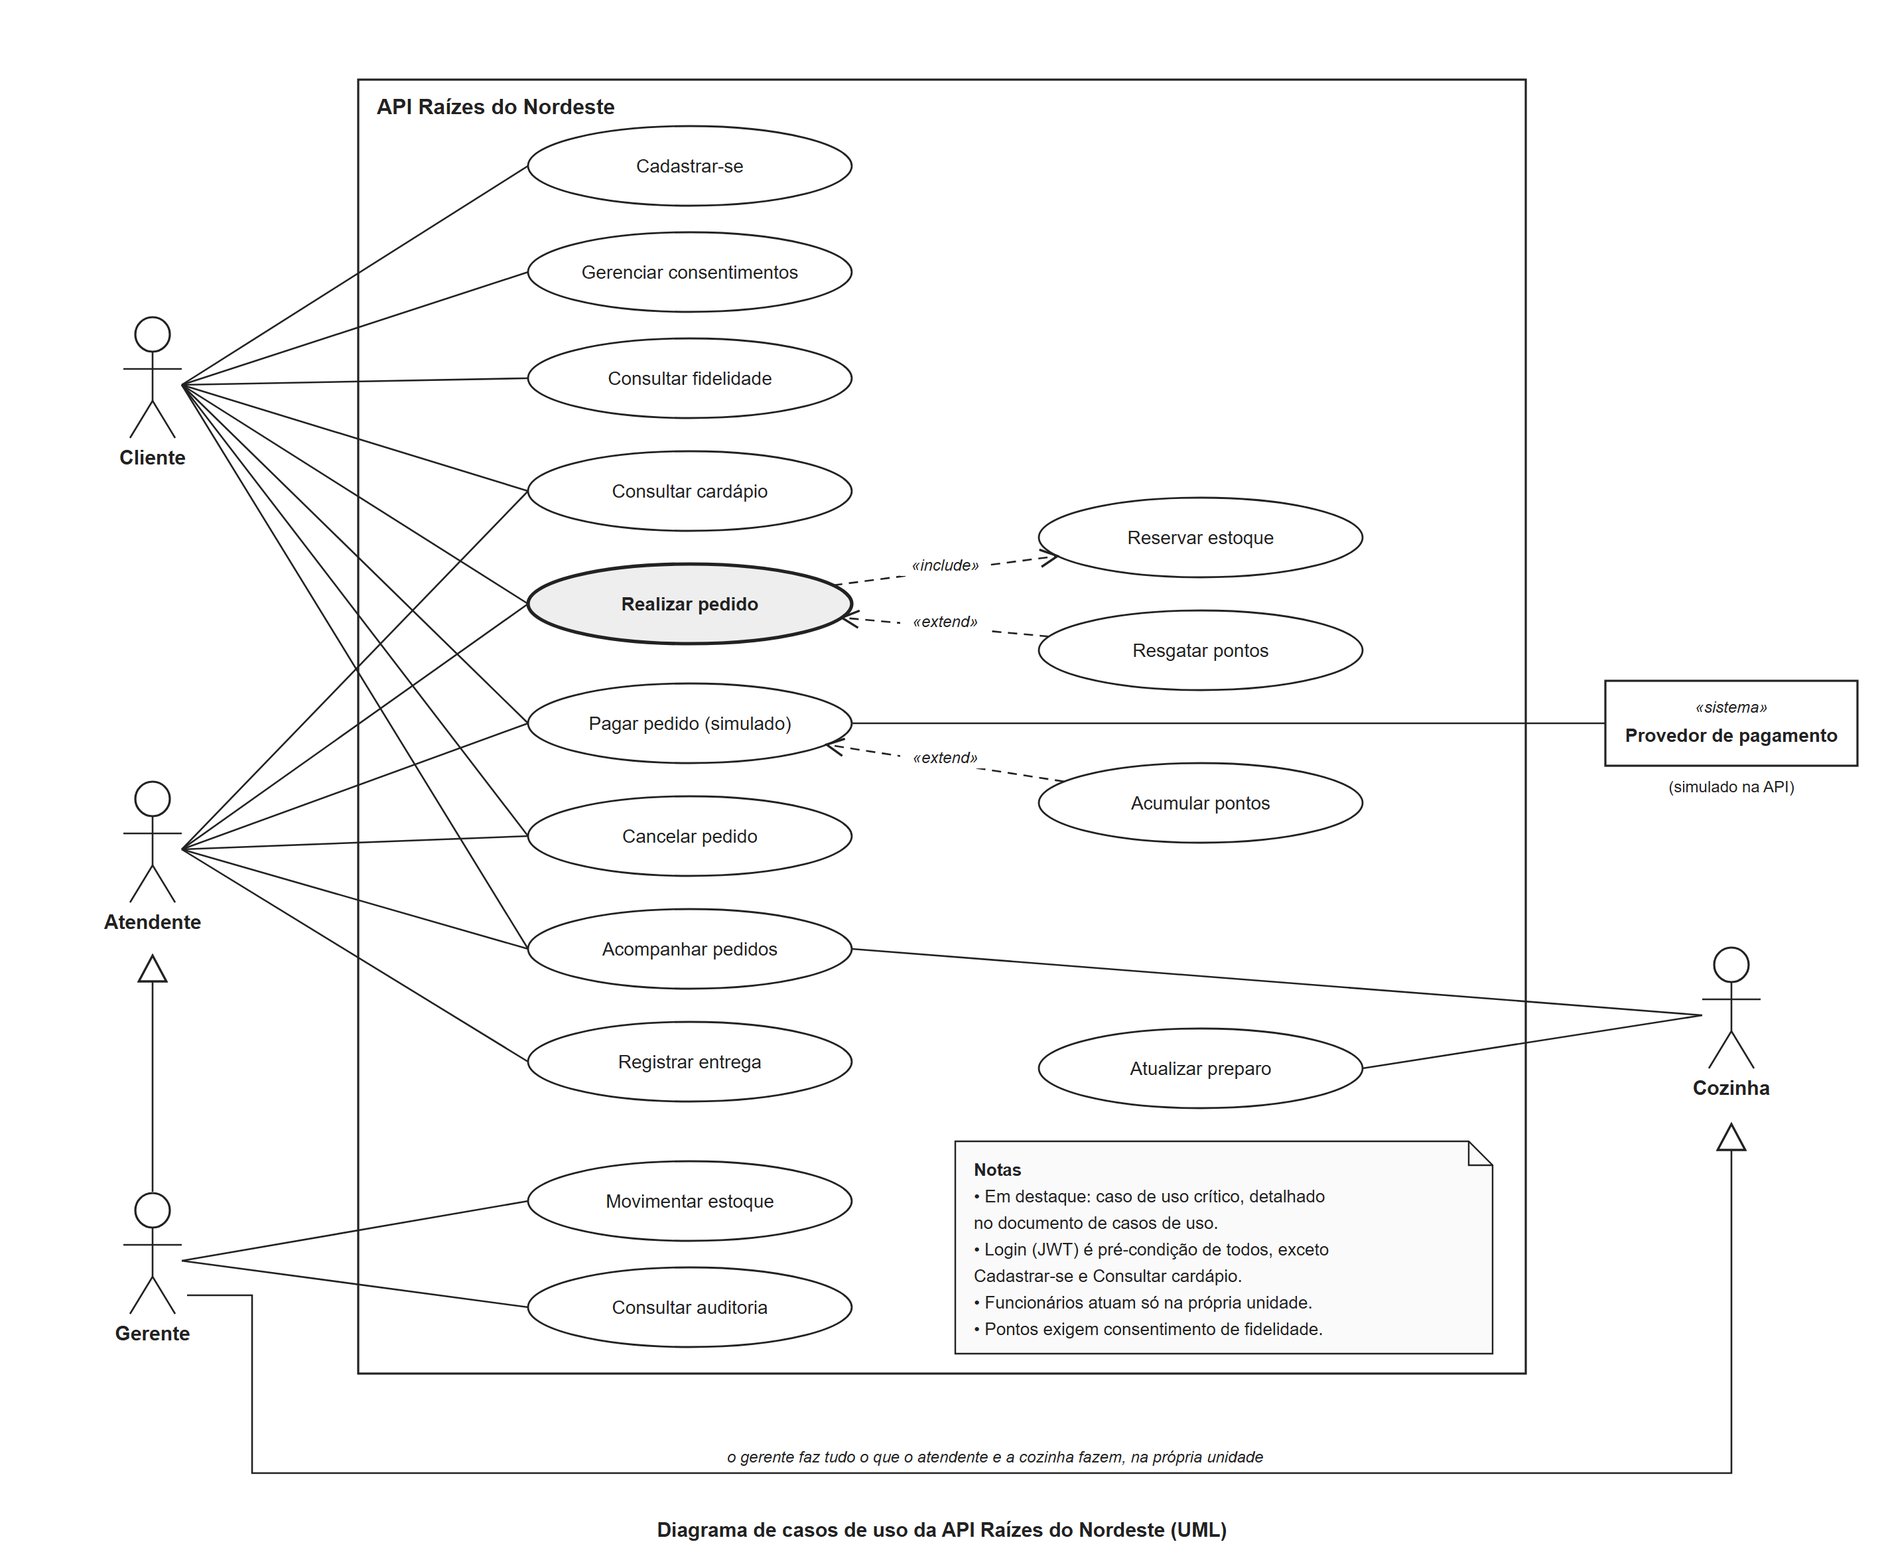
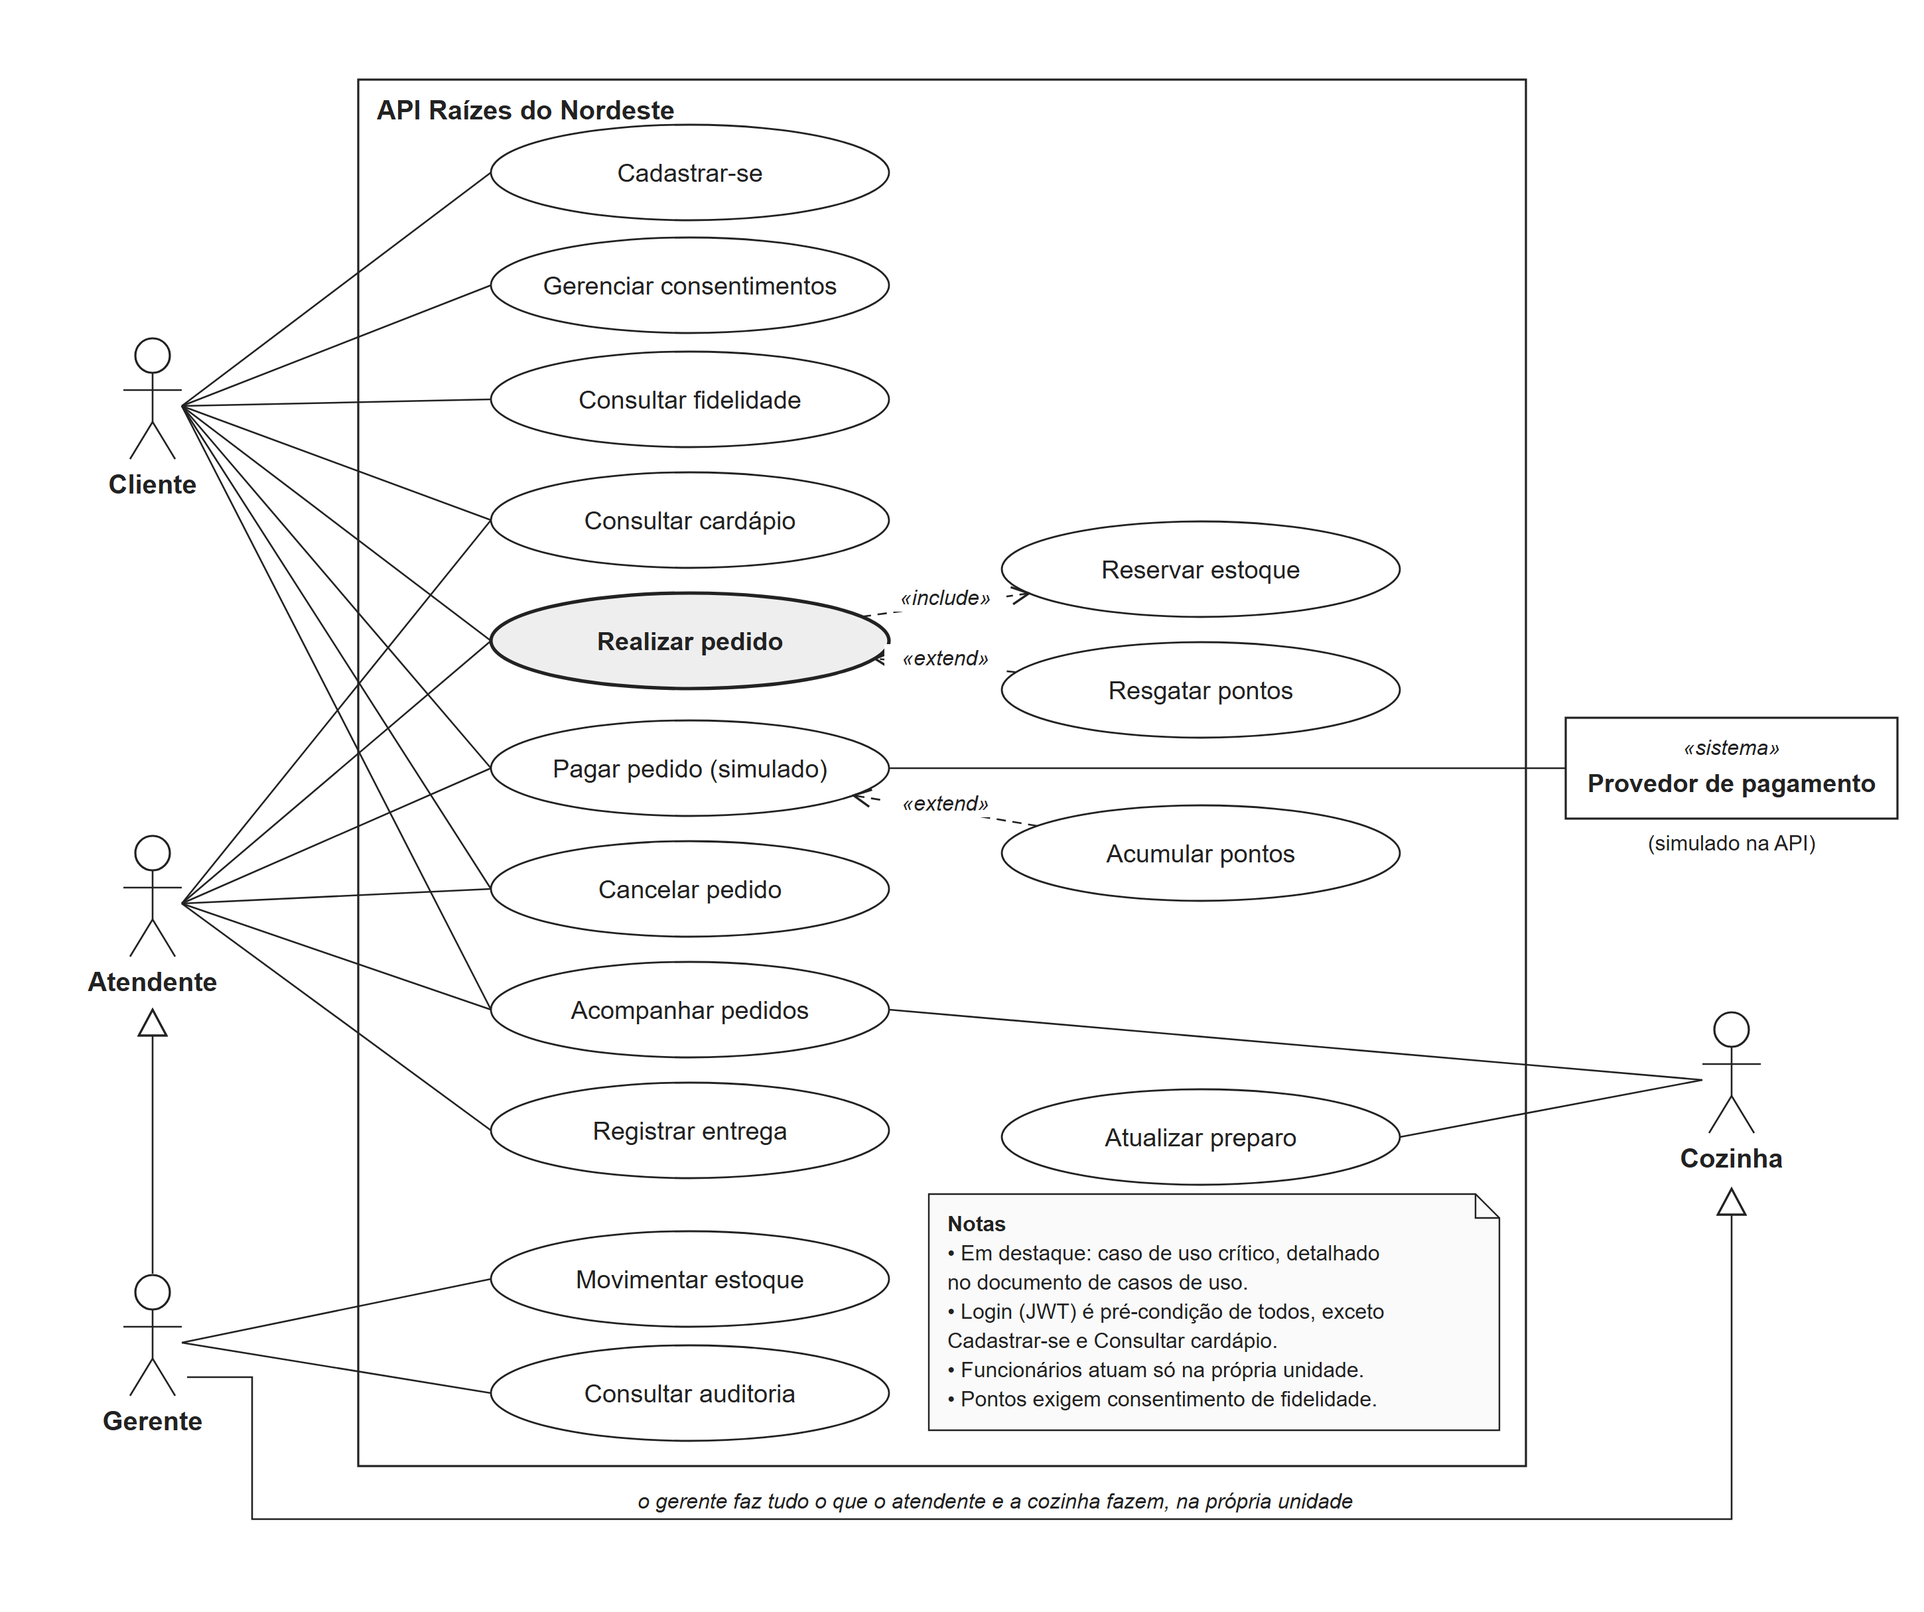
Adiciona o relatório em ABNT (PDF e DOCX), documenta os erros no Swagger e adiciona capturas e diagramas

diff --git a/app/api/rotas/pedidos.py b/app/api/rotas/pedidos.py
@@ -2,25 +2,25 @@
 from fastapi import APIRouter, Query, status
 
 from app.api.deps import Sessao, UsuarioAtual
-from app.api.schemas import PagamentoRequest, PagamentoResponse, PedidoRequest, PedidoResponse, StatusRequest
+from app.api.schemas import PagamentoRequest, PagamentoResponse, PedidoRequest, PedidoResponse, StatusRequest, respostas_de_erro
 from app.application import pedidos
 from app.domain.enums import CanalPedido, StatusPedido
 
 router = APIRouter(tags=["Pedidos"])
 
 
-@router.post("/pedidos", status_code=status.HTTP_201_CREATED, response_model=PedidoResponse)
+@router.post("/pedidos", status_code=status.HTTP_201_CREATED, response_model=PedidoResponse, responses=respostas_de_erro(401, 403, 404, 409, 422), summary="Criar pedido")
 def create_order(data: PedidoRequest, user: UsuarioAtual, session: Sessao) -> PedidoResponse:
     itens = [(item.produto_id, item.quantidade) for item in data.itens]
     return PedidoResponse.de(pedidos.criar_pedido(session, user, data.unidade_id, data.canal_pedido, itens, data.pontos_resgatados))
 
 
-@router.get("/pedidos/{pedido_id}", response_model=PedidoResponse)
+@router.get("/pedidos/{pedido_id}", response_model=PedidoResponse, responses=respostas_de_erro(401, 404, 422), summary="Consultar pedido")
 def get_order(pedido_id: int, user: UsuarioAtual, session: Sessao) -> PedidoResponse:
     return PedidoResponse.de(pedidos.consultar_pedido(session, user, pedido_id))
 
 
-@router.get("/pedidos", response_model=list[PedidoResponse])
+@router.get("/pedidos", response_model=list[PedidoResponse], responses=respostas_de_erro(401, 422), summary="Listar pedidos")
 def list_orders(
     user: UsuarioAtual,
     session: Sessao,
@@ -32,17 +32,17 @@ def list_orders(
     return [PedidoResponse.de(pedido) for pedido in pedidos.listar_pedidos(session, user, canal_pedido, pedido_status, page, limit)]
 
 
-@router.post("/pedidos/{pedido_id}/pagamentos/mock", response_model=PagamentoResponse)
+@router.post("/pedidos/{pedido_id}/pagamentos/mock", response_model=PagamentoResponse, responses=respostas_de_erro(401, 403, 404, 409, 422, 503), summary="Pagar pedido (simulado)")
 def mock_payment(pedido_id: int, data: PagamentoRequest, user: UsuarioAtual, session: Sessao) -> PagamentoResponse:
     return PagamentoResponse.model_validate(pedidos.pagar_mock(session, user, pedido_id, data.resultado))
 
 
-@router.patch("/pedidos/{pedido_id}/status", response_model=PedidoResponse)
+@router.patch("/pedidos/{pedido_id}/status", response_model=PedidoResponse, responses=respostas_de_erro(401, 403, 404, 409, 422), summary="Avançar status do pedido")
 def update_order_status(pedido_id: int, data: StatusRequest, user: UsuarioAtual, session: Sessao) -> PedidoResponse:
     return PedidoResponse.de(pedidos.atualizar_status(session, user, pedido_id, data.status))
 
 
-@router.post("/pedidos/{pedido_id}/cancelamento", response_model=PedidoResponse)
+@router.post("/pedidos/{pedido_id}/cancelamento", response_model=PedidoResponse, responses=respostas_de_erro(401, 403, 404, 409, 422), summary="Cancelar pedido antes do pagamento")
 def cancel_order(pedido_id: int, user: UsuarioAtual, session: Sessao) -> PedidoResponse:
     """Cancela o pedido antes do pagamento e devolve a reserva. Repetir devolve o pedido já cancelado."""
     return PedidoResponse.de(pedidos.cancelar_pedido(session, user, pedido_id))

diff --git a/app/api/rotas/consentimentos.py b/app/api/rotas/consentimentos.py
@@ -2,13 +2,13 @@
 from fastapi import APIRouter
 
 from app.api.deps import Sessao, UsuarioAtual
-from app.api.schemas import ConsentimentoCriadoResponse, ConsentimentoRequest, ConsentimentoResponse, utc_iso
+from app.api.schemas import ConsentimentoCriadoResponse, ConsentimentoRequest, ConsentimentoResponse, respostas_de_erro, utc_iso
 from app.application import consentimentos
 
 router = APIRouter(tags=["Consentimentos (LGPD)"])
 
 
-@router.get("/me/consentimentos", response_model=list[ConsentimentoResponse])
+@router.get("/me/consentimentos", response_model=list[ConsentimentoResponse], responses=respostas_de_erro(401), summary="Listar consentimentos")
 def list_consents(user: UsuarioAtual, session: Sessao) -> list[ConsentimentoResponse]:
     return [
         ConsentimentoResponse(finalidade=evento.finalidade, concedido=evento.concedido, versao_termo=evento.versao_termo, criado_em=utc_iso(evento.criado_em))
@@ -16,7 +16,7 @@ def list_consents(user: UsuarioAtual, session: Sessao) -> list[ConsentimentoResp
     ]
 
 
-@router.post("/me/consentimentos", response_model=ConsentimentoCriadoResponse)
+@router.post("/me/consentimentos", response_model=ConsentimentoCriadoResponse, responses=respostas_de_erro(401, 403, 422), summary="Registrar consentimento")
 def save_consent(data: ConsentimentoRequest, user: UsuarioAtual, session: Sessao) -> ConsentimentoCriadoResponse:
     evento = consentimentos.registrar(session, user, data.finalidade, data.concedido, data.versao_termo)
     return ConsentimentoCriadoResponse(id=evento.id, finalidade=evento.finalidade, concedido=evento.concedido, versao_termo=evento.versao_termo, criado_em=utc_iso(evento.criado_em))

diff --git a/app/api/schemas.py b/app/api/schemas.py
@@ -15,6 +15,36 @@ def utc_iso(valor: datetime) -> str:
     return valor.isoformat() + "Z"
 
 
+class ErroDetalhe(BaseModel):
+    field: str = Field(description="Campo com problema, no formato do corpo ou da query (ex.: itens.0.quantidade).")
+    message: str
+
+
+class ErroResponse(BaseModel):
+    """Formato único de todas as respostas de erro da API."""
+
+    error: str = Field(description="Código do erro.", examples=["PERFIL_SEM_PERMISSAO"])
+    message: str = Field(description="Mensagem para o usuário.")
+    details: list[ErroDetalhe] = Field(description="Um item por campo inválido nos erros 422; vazio nos demais.")
+    timestamp: str = Field(description="Data e hora do erro em UTC (ISO 8601).", examples=["2026-11-23T18:16:23Z"])
+    path: str = Field(description="Caminho chamado.", examples=["/pedidos"])
+
+
+DESCRICAO_DOS_ERROS = {
+    401: "Não autenticado: token ausente, inválido ou expirado, ou usuário inativo.",
+    403: "Perfil ou unidade sem permissão para a operação.",
+    404: "Registro inexistente ou fora do escopo do usuário.",
+    409: "Conflito com o estado atual (estoque, status, pagamento ou cadastro).",
+    422: "Dados inválidos ou fora das regras de negócio.",
+    503: "Provedor de pagamento indisponível (falha simulada).",
+}
+
+
+def respostas_de_erro(*codigos: int) -> dict[int, dict]:
+    """Documenta no Swagger os erros que a rota pode devolver, todos no formato ErroResponse."""
+    return {codigo: {"model": ErroResponse, "description": DESCRICAO_DOS_ERROS[codigo]} for codigo in codigos}
+
+
 class LoginRequest(BaseModel):
     email: str
     senha: str

diff --git a/app/api/rotas/estoque.py b/app/api/rotas/estoque.py
@@ -2,20 +2,20 @@
 from fastapi import APIRouter, Query, status
 
 from app.api.deps import Sessao, UsuarioAtual
-from app.api.schemas import MovimentacaoRequest, MovimentacaoResponse
+from app.api.schemas import MovimentacaoRequest, MovimentacaoResponse, respostas_de_erro
 from app.application import estoque
 
 router = APIRouter(tags=["Estoque"])
 
 
-@router.post("/unidades/{unidade_id}/estoque/movimentacoes", status_code=status.HTTP_201_CREATED, response_model=MovimentacaoResponse)
+@router.post("/unidades/{unidade_id}/estoque/movimentacoes", status_code=status.HTTP_201_CREATED, response_model=MovimentacaoResponse, responses=respostas_de_erro(401, 403, 404, 409, 422), summary="Registrar entrada ou saída de estoque")
 def register_stock_movement(unidade_id: int, data: MovimentacaoRequest, user: UsuarioAtual, session: Sessao) -> MovimentacaoResponse:
     """Entrada ou saída manual de estoque, feita pelo gerente da unidade, com motivo obrigatório."""
     movimentacao = estoque.registrar_movimentacao(session, user, unidade_id, data.produto_id, data.tipo, data.quantidade, data.motivo)
     return MovimentacaoResponse.de(movimentacao)
 
 
-@router.get("/unidades/{unidade_id}/estoque/movimentacoes", response_model=list[MovimentacaoResponse])
+@router.get("/unidades/{unidade_id}/estoque/movimentacoes", response_model=list[MovimentacaoResponse], responses=respostas_de_erro(401, 403, 422), summary="Listar movimentações de estoque")
 def list_stock_movements(
     unidade_id: int,
     user: UsuarioAtual,

diff --git a/tests/test_api.py b/tests/test_api.py
@@ -745,3 +745,24 @@ def test_order_reads_points_from_roteiro_field_name(client: TestClient):
     payload = {"unidadeId": 1, "canalPedido": "APP", "itens": [{"produtoId": 1, "quantidade": 2}], "pontosResgatados": 150}
     body = assert_error(client.post("/pedidos", headers=auth(client, CLIENTE), json=payload), 422, "DADOS_INVALIDOS", "/pedidos")
     assert [detail["field"] for detail in body["details"]] == ["pontosResgatados"]
+
+
+# --- Swagger documenta os erros no formato único --------------------------------
+
+
+def error_schema_properties(openapi: dict, operation: dict, status_code: str) -> set[str]:
+    schema = operation["responses"][status_code]["content"]["application/json"]["schema"]
+    return set(resolve_schema(openapi, schema)["properties"])
+
+
+def test_swagger_documents_errors_in_the_standard_format(client: TestClient):
+    openapi = client.get("/openapi.json").json()
+    formato = {"error", "message", "details", "timestamp", "path"}
+    criar = openapi["paths"]["/pedidos"]["post"]
+    for status_code in ("401", "403", "404", "409", "422"):
+        assert error_schema_properties(openapi, criar, status_code) == formato, status_code
+    pagar = openapi["paths"]["/pedidos/{pedido_id}/pagamentos/mock"]["post"]
+    assert error_schema_properties(openapi, pagar, "503") == formato
+    login = openapi["paths"]["/auth/login"]["post"]
+    assert error_schema_properties(openapi, login, "401") == formato
+    assert "HTTPValidationError" not in openapi["components"]["schemas"]

diff --git a/app/api/rotas/auth.py b/app/api/rotas/auth.py
@@ -2,19 +2,19 @@
 from fastapi import APIRouter, status
 
 from app.api.deps import Sessao
-from app.api.schemas import CadastroRequest, CadastroResponse, LoginRequest, LoginResponse
+from app.api.schemas import CadastroRequest, CadastroResponse, LoginRequest, LoginResponse, respostas_de_erro
 from app.application import auth
 
 router = APIRouter(tags=["Autenticação"])
 
 
-@router.post("/auth/cadastro", status_code=status.HTTP_201_CREATED, response_model=CadastroResponse)
+@router.post("/auth/cadastro", status_code=status.HTTP_201_CREATED, response_model=CadastroResponse, responses=respostas_de_erro(409, 422), summary="Cadastrar cliente")
 def signup(data: CadastroRequest, session: Sessao) -> CadastroResponse:
     """Cadastro público de cliente. Perfil e unidade enviados no corpo são ignorados: a conta nasce como CLIENTE."""
     usuario = auth.cadastrar_cliente(session, data.nome, data.email, data.senha, data.aceite_termos, data.aceita_fidelidade, data.aceita_marketing)
     return CadastroResponse.model_validate(usuario)
 
 
-@router.post("/auth/login", response_model=LoginResponse)
+@router.post("/auth/login", response_model=LoginResponse, responses=respostas_de_erro(401, 422), summary="Fazer login")
 def login(data: LoginRequest, session: Sessao) -> LoginResponse:
     return LoginResponse.model_validate(auth.autenticar(session, data.email, data.senha))

diff --git a/app/api/rotas/catalogo.py b/app/api/rotas/catalogo.py
@@ -2,17 +2,17 @@
 from fastapi import APIRouter, Query
 
 from app.api.deps import Sessao
-from app.api.schemas import CardapioItem, UnidadeResponse
+from app.api.schemas import CardapioItem, UnidadeResponse, respostas_de_erro
 from app.application import catalogo
 
 router = APIRouter(tags=["Catálogo"])
 
 
-@router.get("/unidades", response_model=list[UnidadeResponse])
+@router.get("/unidades", response_model=list[UnidadeResponse], summary="Listar unidades")
 def list_unidades(session: Sessao) -> list[UnidadeResponse]:
     return [UnidadeResponse.model_validate(unidade) for unidade in catalogo.listar_unidades(session)]
 
 
-@router.get("/unidades/{unidade_id}/cardapio", response_model=list[CardapioItem])
+@router.get("/unidades/{unidade_id}/cardapio", response_model=list[CardapioItem], responses=respostas_de_erro(404, 422), summary="Consultar cardápio da unidade")
 def cardapio(session: Sessao, unidade_id: int, page: int = Query(1, ge=1), limit: int = Query(20, ge=1, le=100)) -> list[CardapioItem]:
     return [CardapioItem.model_validate(item) for item in catalogo.cardapio(session, unidade_id, page, limit)]

diff --git a/app/api/rotas/fidelidade.py b/app/api/rotas/fidelidade.py
@@ -2,14 +2,14 @@
 from fastapi import APIRouter
 
 from app.api.deps import Sessao, UsuarioAtual
-from app.api.schemas import FidelidadeResponse, MovimentoFidelidadeResponse, RegrasFidelidadeResponse, utc_iso
+from app.api.schemas import FidelidadeResponse, MovimentoFidelidadeResponse, RegrasFidelidadeResponse, respostas_de_erro, utc_iso
 from app.application import fidelidade
 from app.domain import regras
 
 router = APIRouter(tags=["Fidelidade"])
 
 
-@router.get("/me/fidelidade", response_model=FidelidadeResponse)
+@router.get("/me/fidelidade", response_model=FidelidadeResponse, responses=respostas_de_erro(401, 403), summary="Consultar saldo e extrato de pontos")
 def loyalty_statement(user: UsuarioAtual, session: Sessao) -> FidelidadeResponse:
     """Saldo, situação do consentimento e últimos 100 movimentos de pontos do cliente autenticado."""
     dados = fidelidade.consultar(session, user)

diff --git a/app/api/rotas/auditoria.py b/app/api/rotas/auditoria.py
@@ -2,13 +2,13 @@
 from fastapi import APIRouter
 
 from app.api.deps import Sessao, UsuarioAtual
-from app.api.schemas import AuditoriaResponse, utc_iso
+from app.api.schemas import AuditoriaResponse, respostas_de_erro, utc_iso
 from app.application import auditoria
 
 router = APIRouter(tags=["Auditoria"])
 
 
-@router.get("/auditoria", response_model=list[AuditoriaResponse])
+@router.get("/auditoria", response_model=list[AuditoriaResponse], responses=respostas_de_erro(401, 403), summary="Consultar auditoria da unidade")
 def list_audit(user: UsuarioAtual, session: Sessao) -> list[AuditoriaResponse]:
     return [
         AuditoriaResponse(id=evento.id, acao=evento.acao, tipo_entidade=evento.tipo_entidade, entidade_id=evento.entidade_id, detalhes=evento.detalhes, criado_em=utc_iso(evento.criado_em))

diff --git a/app/api/rotas/saude.py b/app/api/rotas/saude.py
@@ -4,6 +4,6 @@ from fastapi import APIRouter
 router = APIRouter(tags=["Saúde"])
 
 
-@router.get("/health")
+@router.get("/health", summary="Verificar se a API está ativa")
 def health() -> dict[str, str]:
     return {"status": "ok"}

diff --git a/docs/PLANO_DE_TESTES.md b/docs/PLANO_DE_TESTES.md
@@ -99,7 +99,7 @@ A coleção guarda os IDs criados em variáveis (`pedidoId`, `pedidoCanceladoId`
 
 | Execução | Resultado | Evidência |
 | --- | --- | --- |
-| pytest | 125 testes passaram, 0 falhas | [evidencias/pytest-execucao.txt](evidencias/pytest-execucao.txt) |
+| pytest | 126 testes passaram, 0 falhas | [evidencias/pytest-execucao.txt](evidencias/pytest-execucao.txt) |
 | Newman, 1ª execução (banco recém-criado) | 54 requisições, 131 asserções, 0 falhas | [evidencias/newman-execucao.txt](evidencias/newman-execucao.txt) |
 | Newman, 2ª execução seguida (mesmo banco) | 54 requisições, 131 asserções, 0 falhas | Execução de conferência, não arquivada |
 

diff --git a/README.md b/README.md
@@ -178,6 +178,7 @@ A divisão em camadas está explicada em [docs/ARQUITETURA.md](docs/ARQUITETURA.
 - [Diagramas da solução: casos de uso, DER, classes e sequência](docs/DIAGRAMAS.md)
 - [Plano de execução](PLAN.md) e [registro da revisão do plano](PLAN-REVIEW-LOG.md)
 - [Roteiro do relatório acadêmico](docs/RELATORIO_MODELO.md)
+- [Relatório acadêmico em PDF](entrega/4250113_Projeto_Back_End.pdf) e [versão editável em DOCX](entrega/4250113_Projeto_Back_End.docx)
 
 ## Uso de IA
 
